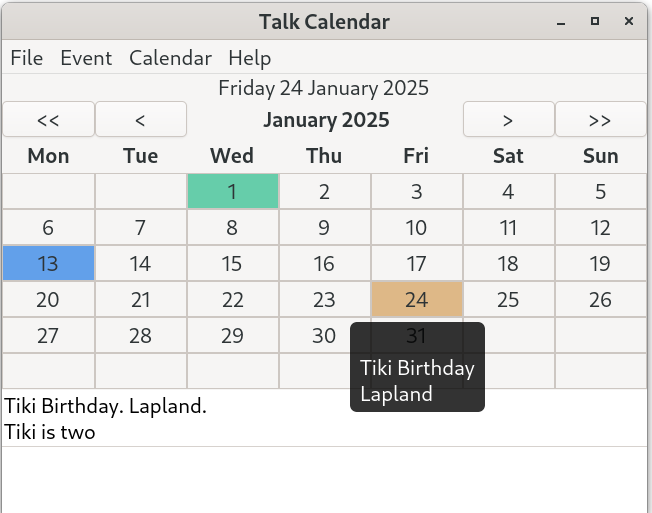
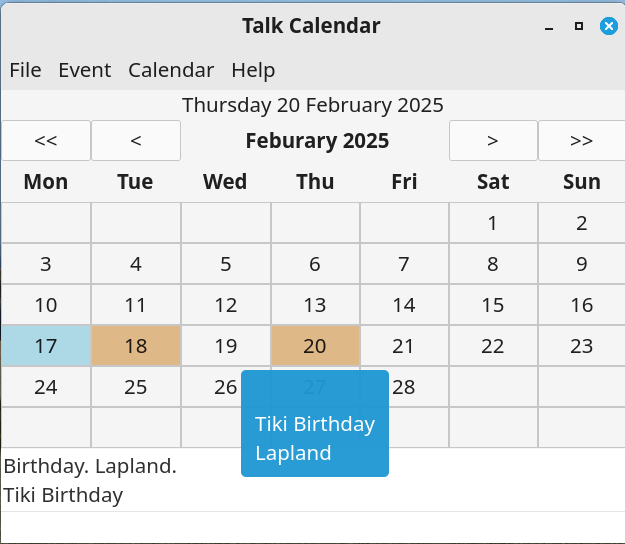
readme update and new screenshots

diff --git a/README.md b/README.md
@@ -1,51 +1,38 @@
 # Talk Calendar
 
-Talk Calendar is a personal desktop calendar for use with Raspberry Pi OS (64 bit) which has some speech capability using its own built-in speech engine for speaking dates, times and event words. This version has been compiled for use with Raspberry Pi OS (64 bit) which is a port of Debian Bookworm for Raspberry Pi desktops. It has been tested with a Pi 4 and the default Wayland compositor used by Raspberry Pi OS called [labwc](https://www.raspberrypi.com/news/a-new-release-of-raspberry-pi-os/).
+Talk Calendar is a personal desktop calendar for use with Raspberry Pi OS (64 bit) which has some speech capability using its own built-in speech engine for speaking dates, times and event words. 
 
-Talk Calendar has been developed using C and [GTK4](https://docs.gtk.org/gtk4/). The speech synthesizer which is based on concatenating and playing back pre-recorded English words. A screenshot of Talk Calendar is shown below.
+Talk Calendar developed using C and [GTK4](https://docs.gtk.org/gtk4/) for GTK desktops (GNOME, XFCE etc.). The speech synthesizer which is based on concatenating and playing back pre-recorded English words. A screenshot of Talk Calendar is shown below.
 
 ![](talkcalendar.png)
 
 ## Core Features
 
-* built with C and GTK 4.8 (Debian Bookworm)
-* month-view calendar 
+* built with C and GTK4 for GTK based desktops
+* month view calendar 
 * event details, location, start and end time can be entered and edited
 * export and import iCalendar files (backup and restore)
 * Sqlite3 database used to store events
 * built-in word concatenation speech synthesizer (date, time and event word speaker)
+* binary for GTK 4.16.5 (Fedora 41)
 
 ### Local Install Using Prebuilt Binary
 
-A 64-bit prebuilt binary for the latest version of Talk Calendar is available and can be downloaded from the binary directory. This has been built using GTK 4.8 and tested with Raspberry Pi OS (64-bit) on a Pi 4. 
+A 64-bit prebuilt binary for the latest version of Talk Calendar is available and can be downloaded from the binary directory. This has been built using GTK 4.16 and compiled using Fedora 41 and tested with Ubuntu 24.04 LTS and Debian Trixie (alpha).
 
-Extract the downloaded file which contains the TalkCalendar executable. Assuming that the GTK4 base libraries are installed the Talk Calendar binary can be run from the terminal using:
+Extract the downloaded file which contains the Talk Calendar executable. Assuming that the GTK4 base libraries are installed the Talk Calendar binary can be run from the terminal using:
 
 ```
 ./talkcalendar
 ```
 
-or double click on the "talkcalendar" file. Talk Calendar must have executable permissions to execute. If it does not then right click on the Talk Calendar binary file and choose Properties->Permissions and tick allow "Executable as Program".
+or double click on the "talkcalendar" file. Talk Calendar must have executable permissions to execute. Right click it and choose Properties->Permissions and tick allow "Executable as Program".
 
-To add Talk Calendar to the system menu modify the Talk Calendar desktop file provided in the download. A desktop file has a .desktop extension and provides metadata about an application such as its name, icon, command to execute and other properties. For user-specific applications desktop files can be located locally in the ~/.local/share/applications/ directory. Local user entries take precedence over system entries. The desktop file should be named using the [application ID](https://developer.gnome.org/documentation/tutorials/application-id.html), that is <application_id>.desktop, which in this case is "org.gtk.talkcalendar.desktop" 
+To add Talk Calendar to the system menu modify the Talk Calendar desktop file provided in the download. A desktop file has a .desktop extension and provides metadata about an application such as its name, icon, command to execute and other properties. For user-specific applications desktop files can be located locally in the ***~/.local/share/applications/*** directory. Local user entries take precedence over system entries. For the GNOME desktop, the desktop file should be named using the [application ID](https://developer.gnome.org/documentation/tutorials/application-id.html), that is <application_id>.desktop, which in this case is "org.gtk.talkcalendar.desktop" 
 
-The "org.gtk.talkcalendar.desktop" file is shown below. You need to modify this using your own user name and directory locations. For example, if your user name is "tiki" and you install local applications in a folder called "Software" and you create a folder called "talkcalendar " to store the Talk Calendar binary executable then the executable path would be "Exec=/home/tiki/Software/talkcalendar/talkcalendar". The Exec variable defines the command to execute when launching an application, in this case, the Talk Calendar binary executable. The Path variable tells the system where to look for the executable and the calendar database. The Icon variable specifies the path to the icon file associated with the application. In a .desktop file, you need to use absolute and full paths.
+You need to modify the "org.gtk.talkcalendar.desktop" file using your own user name and directory locations. For example, if your user name is "tiki" and you install local applications in a folder called "Software" and you create a folder called "talkcalendar " to store the Talk Calendar binary executable then the executable path would be "Exec=/home/tiki/Software/talkcalendar/talkcalendar". The Exec variable defines the command to execute when launching an application, in this case, the talkcalendar binary executable. The Path variable tells the system where to look for the executable and the calendar database. The Icon variable specifies the path to the icon file associated with the application. In a .desktop file, you need to use absolute and full paths.
 
-```
-[Desktop Entry]
-Version=0.2.6
-Type=Application
-Name=Talk Calendar
-Comment=Speaking Calendar
-Icon=/home/your-user-name/folder/talkcalendar/calendar.png
-Exec=/home/your-user-name/folder/talkcalendar/talkcalendar
-Path=/home/your-user-name/folder/talkcalendar
-X-GNOME-UsesNotifications=true
-Categories=Calendar;Office;
-MimeType=text/calendar;
-```
-
-Copy your modified  "org.gtk.talkcalendar.desktop" file to the ***~/.local/share/applications/***  hiden directory (tick the "Show Hidden Files" option in the file explorer). Create the ~/.local/share/applications/ directory if it does not already exist. Talk Calendar is installed locally using this approach. 
+Copy the "org.gtk.talkcalendar.desktop" file to the ***~/.local/share/applications/*** directory. Create the ~/.local/share/applications/ directory if it does not already exist. This way of locally installing Talk Calendar should be universal across different Linux distributions.
 
 ## Calendar Usage
 
